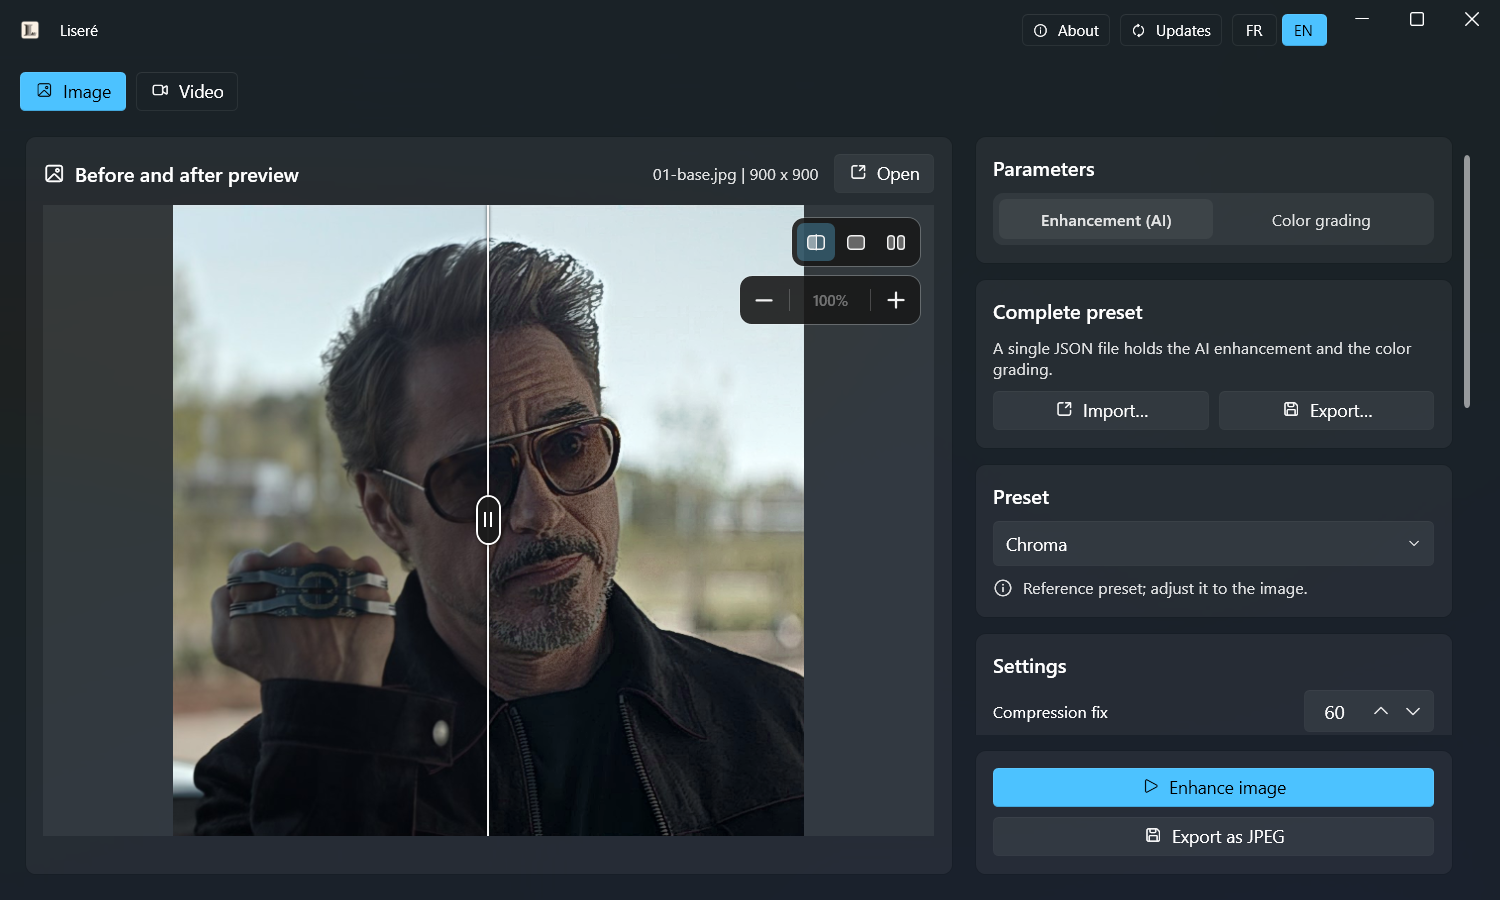
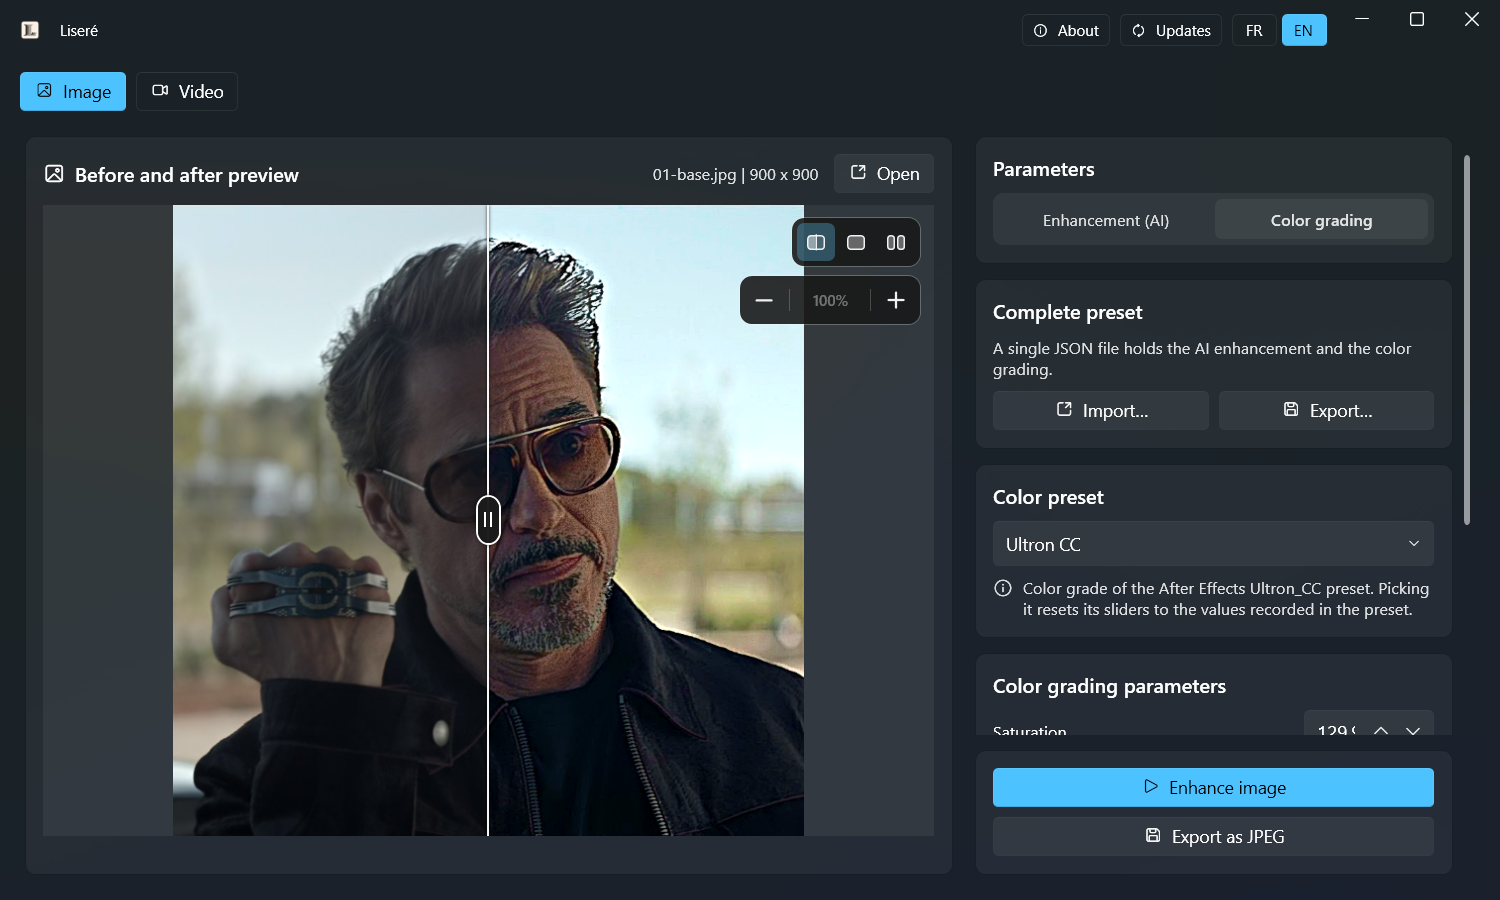
Actualise les captures avec l'amélioration Chroma et la colorimétrie Ultron CC.
🤖 Generated with Codebuff

diff --git a/README.md b/README.md
@@ -12,7 +12,7 @@ Liseré est une application de bureau Windows pour améliorer **une image ou une
 |:---:|:---:|
 | ![Espace Image de Liseré : comparaison avant/après](assets/screenshots/image-fr.png) | ![Espace Vidéo de Liseré : timeline et comparaison](assets/screenshots/video-fr.png) |
 
-Captures de l'application avec le préréglage **Chroma**, la comparaison avant/après, les trois modes de prévisualisation et la timeline vidéo.
+Captures de l'application avec l'amélioration **Chroma** et l'étalonnage **Ultron CC**, la comparaison avant/après, les trois modes de prévisualisation et la timeline vidéo.
 
 ## Installation
 

diff --git a/README.en.md b/README.en.md
@@ -12,7 +12,7 @@ Liseré is a Windows desktop application for enhancing **an image or a video**, 
 |:---:|:---:|
 | ![Liseré Image workspace: before/after comparison](assets/screenshots/image-en.png) | ![Liseré Video workspace: timeline and comparison](assets/screenshots/video-en.png) |
 
-Screenshots of the application with the **Chroma** preset, the before/after comparison, the three preview modes and the video timeline.
+Screenshots of the application with the **Chroma** enhancement and **Ultron CC** grading, the before/after comparison, the three preview modes and the video timeline.
 
 ## Installation
 
